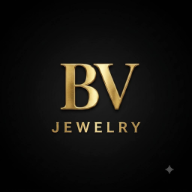
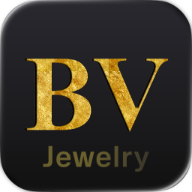
Add files via upload

diff --git a/index.html b/index.html
@@ -2,12 +2,10 @@
 <html lang="uk" data-theme="light">
 <head>
 
-<link rel="icon" type="image/png" href="/favicon-96x96.png" sizes="96x96" />
-<link rel="icon" type="image/svg+xml" href="/favicon.svg" />
-<link rel="shortcut icon" href="/favicon.ico" />
-<link rel="apple-touch-icon" sizes="180x180" href="/apple-touch-icon.png" />
-<meta name="apple-mobile-web-app-title" content="BV Jewelry" />
-<link rel="manifest" href="/site.webmanifest" />
+<link rel="apple-touch-icon" sizes="180x180" href="/apple-touch-icon.png">
+<link rel="icon" type="image/png" sizes="32x32" href="/favicon-32x32.png">
+<link rel="icon" type="image/png" sizes="16x16" href="/favicon-16x16.png">
+<link rel="manifest" href="/site.webmanifest">
 
     <meta name="description" content="Купити вишукані ювелірні вироби, каблучки та прикраси за вигідними цінами. Швидка доставка по Україні.">
     
